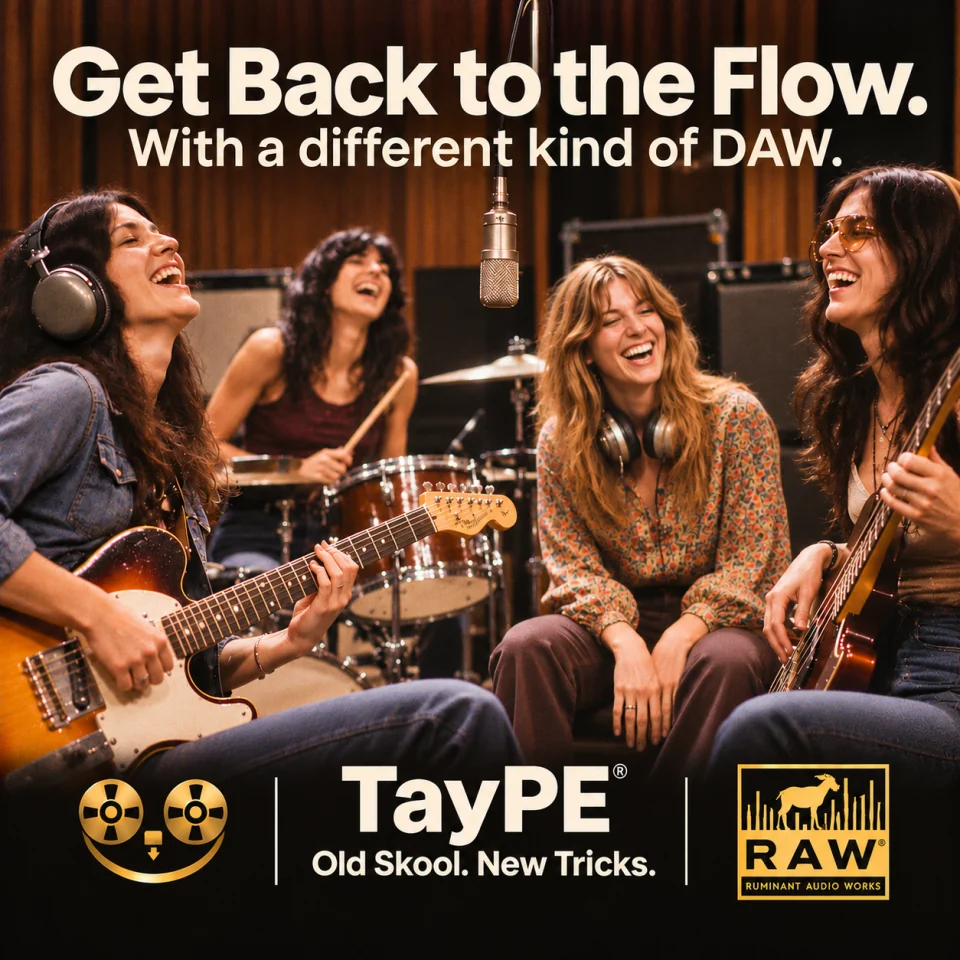
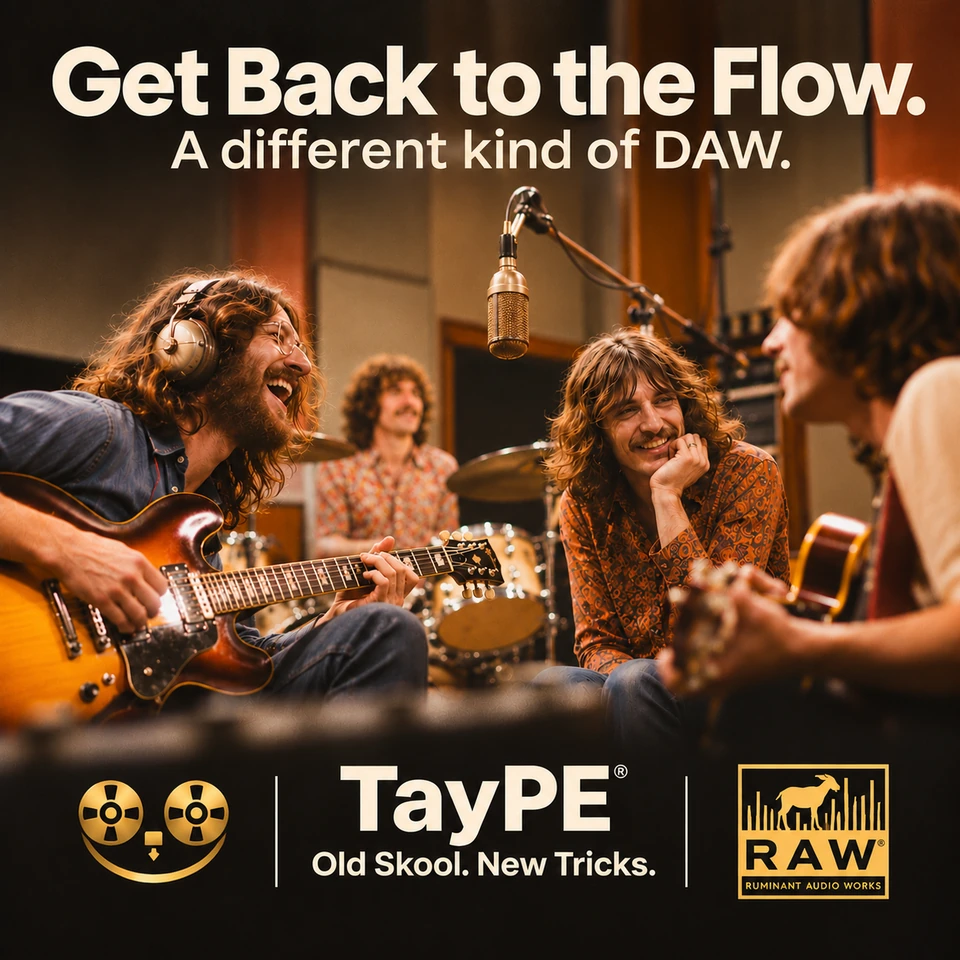
Update the TayPE landing creative and activation wording

diff --git a/index.html b/index.html
@@ -44,7 +44,7 @@
       <p>with a different kind of DAW</p>
     </div>
     <div class="session-photo">
-      <img src="/assets/img/campaign/taype-studio-960.webp" srcset="/assets/img/campaign/taype-studio-640.webp 640w, /assets/img/campaign/taype-studio-960.webp 960w, /assets/img/campaign/taype-studio-1254.webp 1254w" sizes="(min-width: 581px) and (any-hover: hover) min(100vw, 72rem, max(20rem, 100vh)), min(100vw, 72rem)" fetchpriority="high" width="1254" height="1254" alt="Four musicians laughing in a recording studio. Below them are the TayPE tape-reel icon, the TayPE wordmark with “Old Skool. New Tricks.” and the Ruminant Audio Works badge.">
+      <img src="/assets/img/campaign/taype-studio-960.webp" srcset="/assets/img/campaign/taype-studio-640.webp 640w, /assets/img/campaign/taype-studio-960.webp 960w, /assets/img/campaign/taype-studio-1254.webp 1254w" sizes="(min-width: 581px) and (any-hover: hover) min(100vw, 72rem, max(20rem, 100vh)), min(100vw, 72rem)" fetchpriority="high" width="1254" height="1254" alt="Four musicians in a recording studio, with a laughing guitarist in the foreground. Below them are the TayPE tape-reel icon, the TayPE wordmark with “Old Skool. New Tricks.” and the Ruminant Audio Works badge.">
     </div>
   </header>
   <div class="session-content">

diff --git a/ruminant-audio-works/index.html b/ruminant-audio-works/index.html
@@ -847,7 +847,7 @@ footer {
             </article>
             <article class="trust-item">
                 <span class="mark">A</span>
-                <h3>No online activation</h3>
+                <h3>No online activation required</h3>
                 <p>The relationship between developer and musician should begin with trust, not restriction.</p>
             </article>
             <article class="trust-item">
